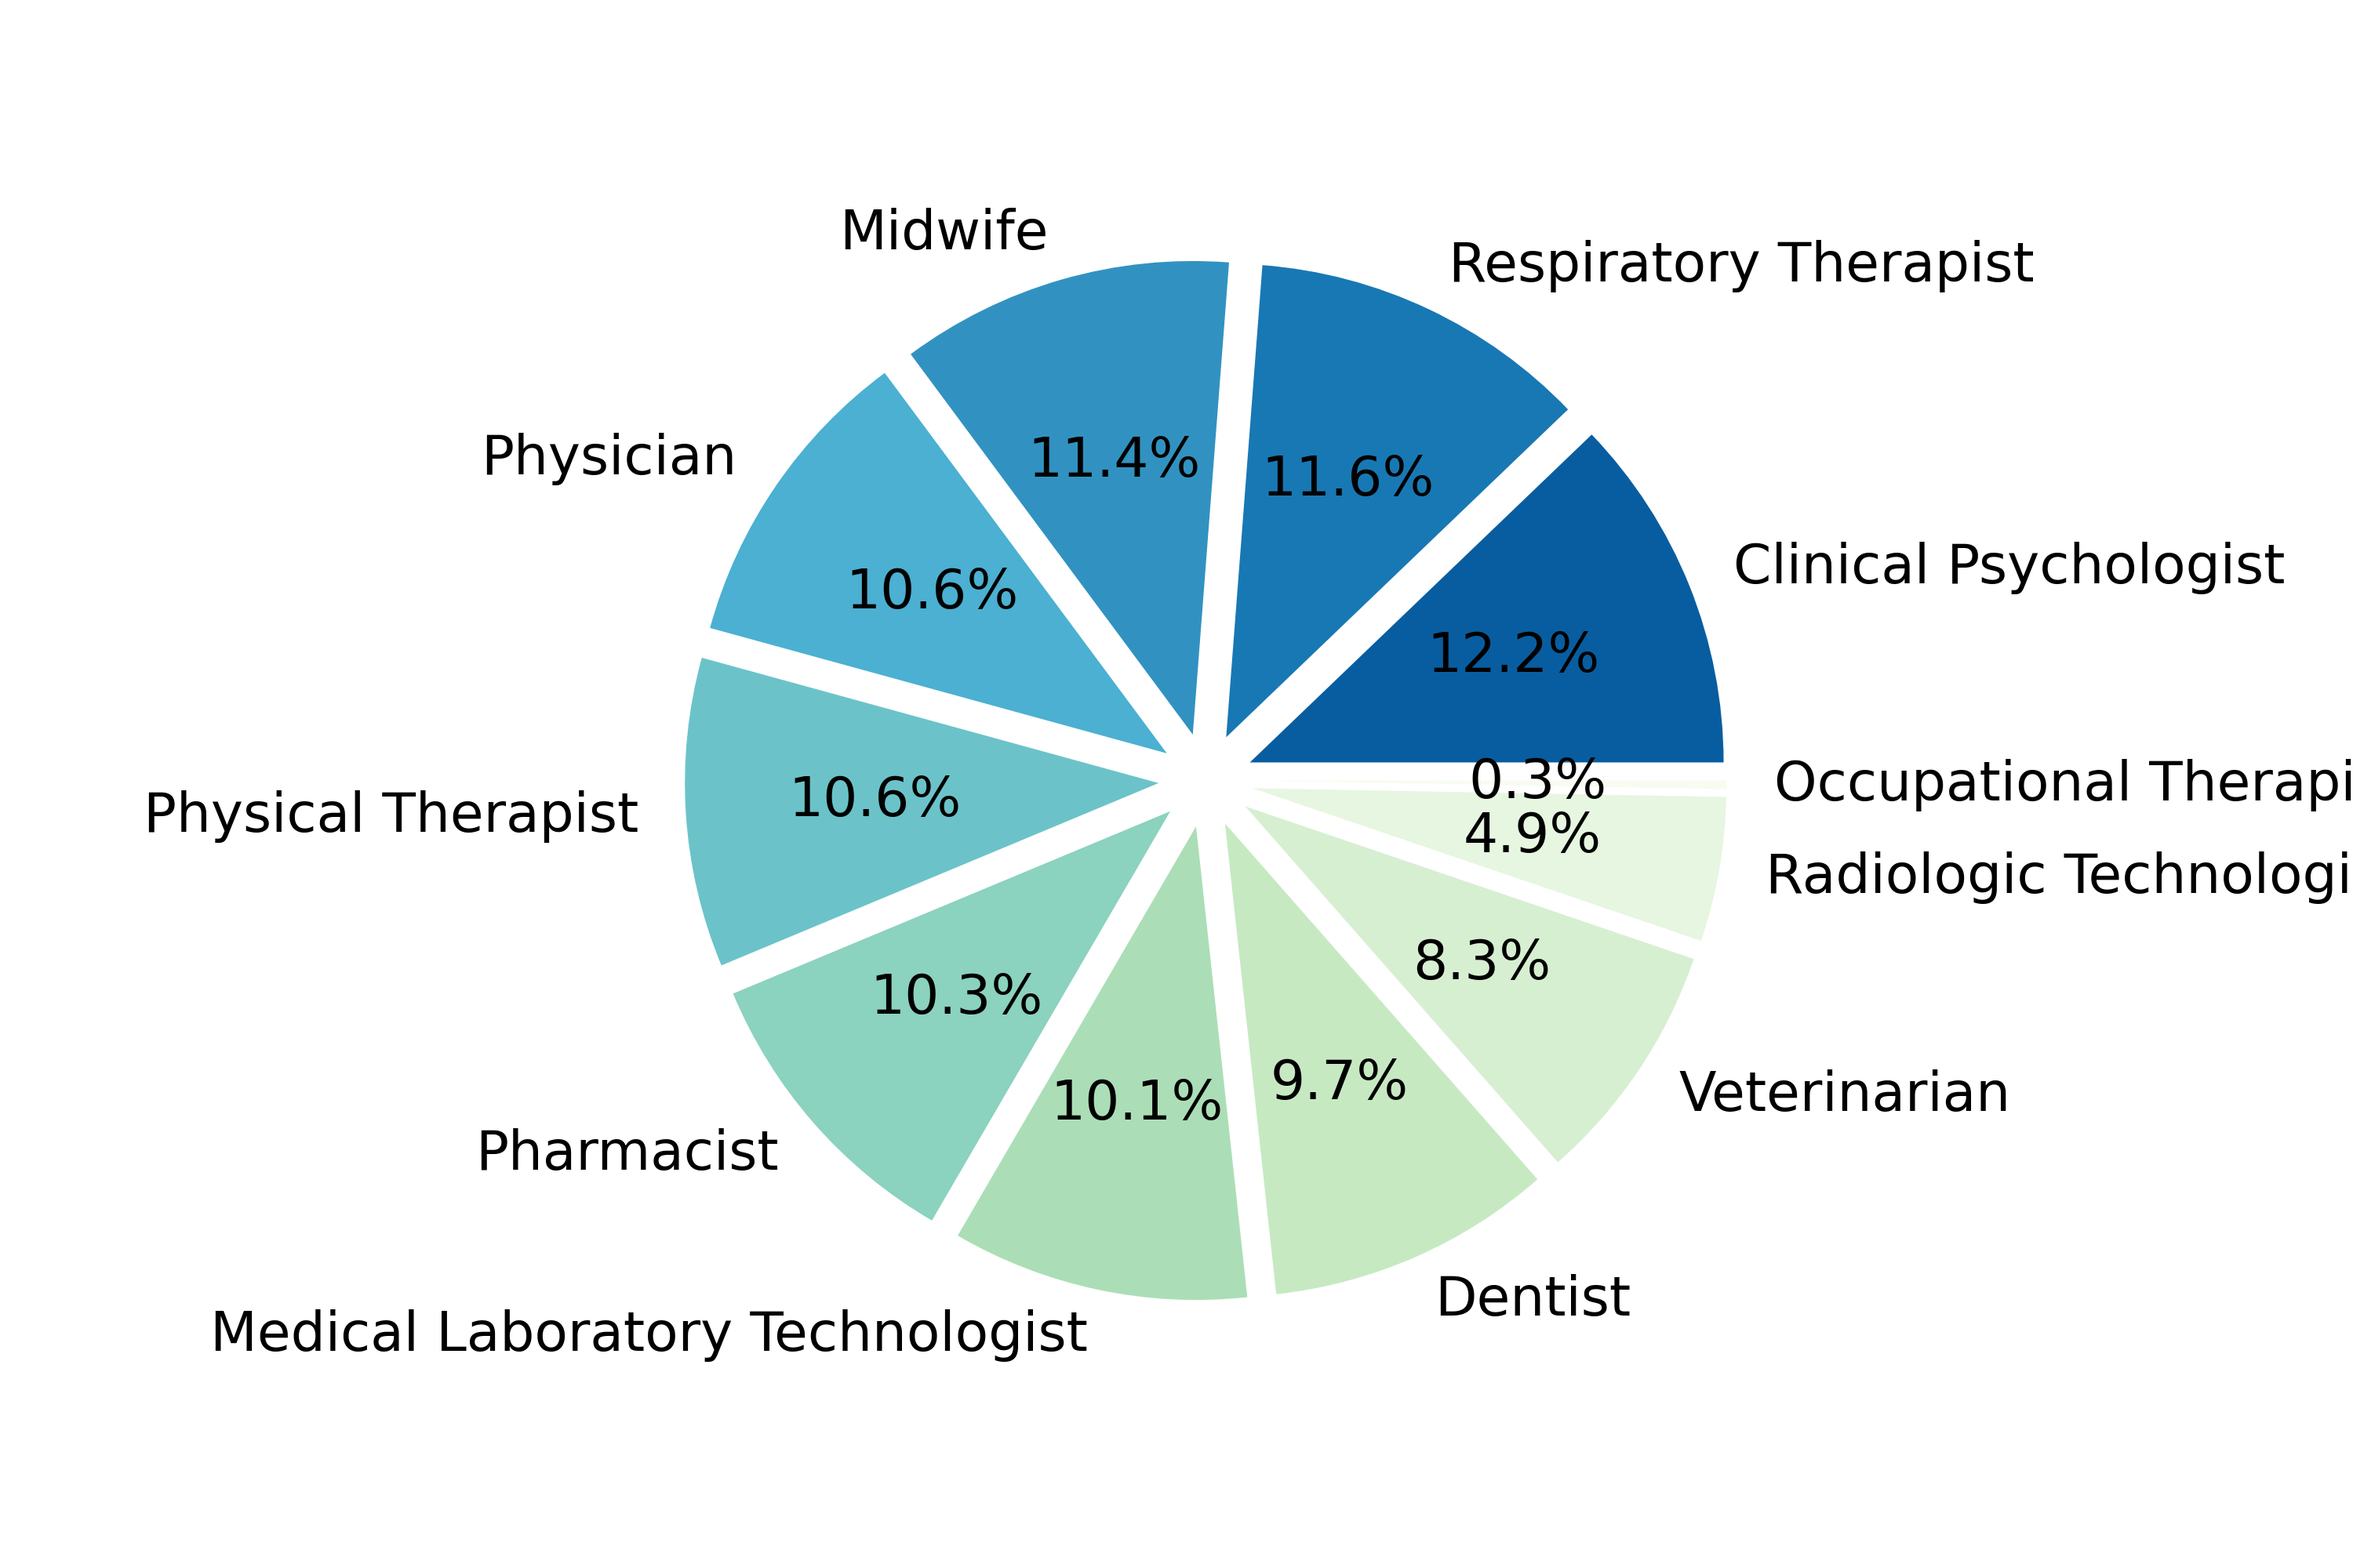
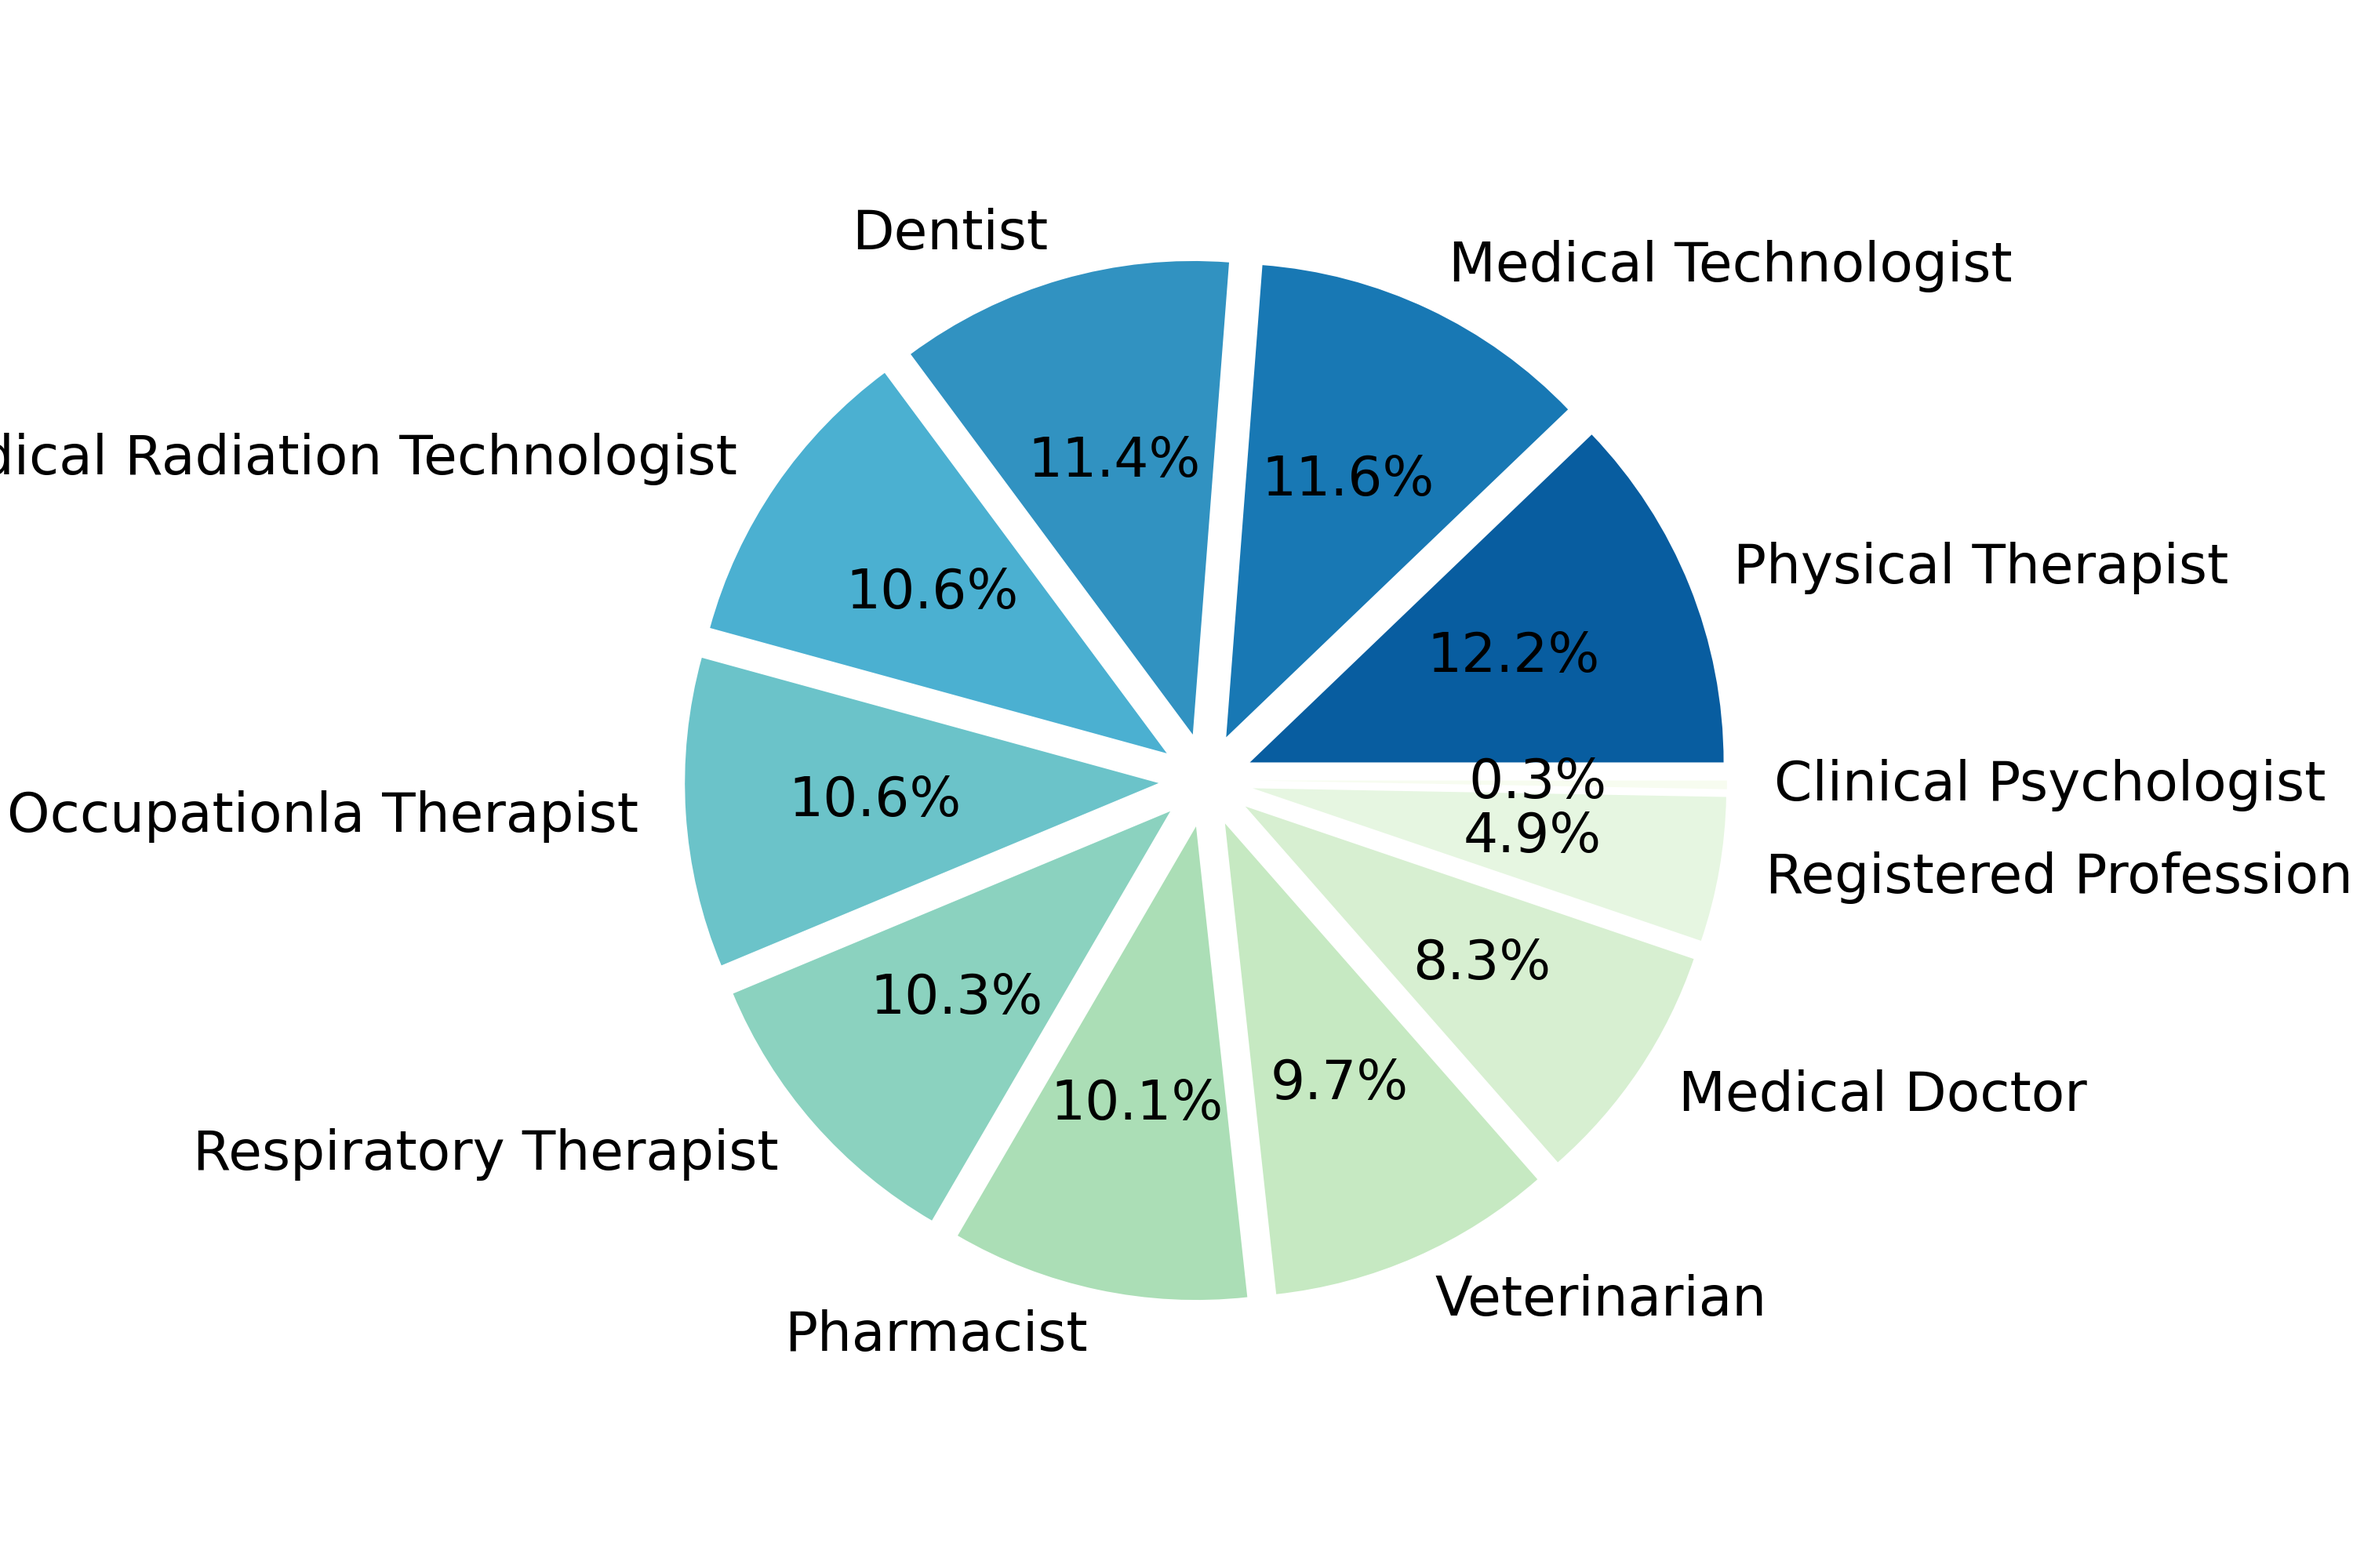
fix errors in the figs, add llama 70b chat results

diff --git a/README.md b/README.md
@@ -10,11 +10,11 @@ We collect the tests for various medical professionals such as  *Medical Technol
 
 We tested the 2023 first-time examination set (2840) on multiple LLMs with zero-shot the results are shown as follows:
 
-| Model           | Zero-Shot|   
-|-----------------|----------|
-| GPT3.5-Turbo    | 52.25%   | 
-| GPT4            | 65.46%   |
-
+| Model           | Traditional|Zero-Shot|   
+|-----------------|------------|---------|
+| GPT3.5-Turbo    | No         |  52.25% | 
+| GPT4            | No         |  65.46% |
+| Llama-70b-Chat  | No         |  33.17% |
 
 
 EMPC forms a remarkable challenge for AI models and can serve as an effective tool to evaluate models' medical knowledge encoded in Chinese. We hope EMPC could support the exploration and building of Large Multi-lingual or Chinese Language Models, especially in the medical domain.
